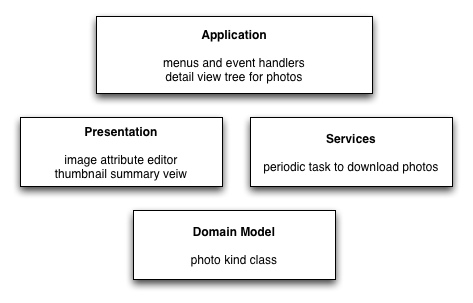
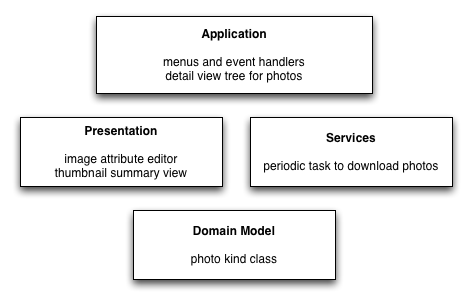
Added edits from Philippe, including typo in diagram.
git-svn-id: http://svn.osafoundation.org/chandler/trunk@8613 3c49585b-f0f7-0310-b5f9-dfe92a88fbfe

diff --git a/chandler/distrib/docs/overview.html b/chandler/distrib/docs/overview.html
@@ -159,7 +159,7 @@ Like
 many applications built on GUI frameworks, Chandler tends to mix the
 View and Controller code in one layer. We expect to reexamine this
 choice in
-the 0.7 timeframe -- this document will focus on the code as it exists
+the 0.7 time frame -- this document will focus on the code as it exists
 in the 0.6 release.
 <h3><a name="Application_Layer"></a>Application
 Layer</h3>
@@ -208,7 +208,7 @@ Most application layer code can be found here (starting from the top of the chan
 
 <ul>
   <li style="font-weight: bold;">application<span style="font-weight: normal;">&nbsp;The
-main class that runs the wxPython app, including application startup
+main class that runs the wxPython application, including application startup
 code. Also includes wxPython related printing support, and some system
 wide global variables.</span></li>
   <li><span style="font-weight: bold;">application.dialogs</span>
@@ -299,7 +299,7 @@ The appropriate Detail View tree of Blocks gets hooked into the Main
 View, depending on the Kind of Item selected.<br>
 <br>
 <span style="font-weight: bold;">Terminology note:</span> We sometimes use "Block" and "View"
-interchangably. "View" comes from MVC, and "Block" is our
+interchangeably. "View" comes from MVC, and "Block" is our
 Chandler-specific term. Yes, this can be confusing, especially given
 that "View" is also a common database term and we use "Repository View" as the name for a connection to the
 Repository.<br>
@@ -367,7 +367,7 @@ issue in 0.7.<br>
 <span style="font-weight: bold;">
 Key decision:</span> CPIA is not meant to be a general cross
 platform
-application building framework (ala XUL or wxWidgets). &nbsp;We're
+application building framework (such as XUL or wxWidgets). &nbsp;We're
 not trying to boil the ocean here. Chandler specific concepts like
 Items, Collections,&nbsp;Sidebar, Summary View and Detail View
 and their relationship to each other are embedded in the CPIA
@@ -409,7 +409,8 @@ webserver.<br>
 
 <br>
 The Chandler application allows users to&nbsp;share Collections by
-publishing them to a server. Similarly, a Chandler can subscribe to
+publishing them to a server. Similarly, a Chandler user can subscribe
+to
 other users' Collections. Even in 0.6, Chandler supports both read-only
 as well as read-write access to these shared calendars. Chandler also
 supports import and export of
@@ -452,7 +453,7 @@ an OSAF project with no dependencies on the rest of Chandler.<br>
 
 Zanshin and Chandler use the <a href="http://twistedmatrix.com/">Twisted</a>
 framework for networking support. Chandler
-services like mail and sharing run in the Twisted Reactor. See&nbsp;<a href="overview.html#Threading_Model">ThreadingModel</a>
+services like mail and sharing run in the Twisted Reactor. See&nbsp;<a href="overview.html#Threading_Model">Threading Model</a>
 below for more information on how this works. More information on
 Twisted in Chandler can be found <a href="http://wiki.osafoundation.org/bin/view/Projects/TwistedHome">here</a>
 and here. &lt;TODO: insert link to startup document&gt;<br>
@@ -516,9 +517,9 @@ Recurrence specification</a></li>
 </ul>
 
 <span style="font-weight: bold;">
-Terminology note</span>: We've have called this layer the
+Terminology note</span>: We have called this layer the
 "content model" in the past, so
-you'll find that term in the code. I chose "Domain Model" for this
+you'll find that term in the code. We chose "Domain Model" for this
 document because that term is more consistently used for this type of
 layer in other projects. We're still wrestling with the terminology and
 hope to clarify this further in 0.7.<br>
@@ -559,7 +560,7 @@ Parcels, for example. We created Parcels before the existence of <a href="http:/
 (or at least before we knew about them). In future releases we plan to
 replace Parcels with Eggs as a unit of component packaging.<br>
 <br>
-The <span style="font-weight: bold;">starup</span> module provides
+The <span style="font-weight: bold;">startup</span> module provides
 hooks&nbsp;for running code at application startup. It provides classes
 that help run code in a separate thread, classes that run in the
 Twisted reactor (<span style="font-weight: bold;">TwistedTask</span>), and classes that run at periodic intervals in the Twisted reactor (<span style="font-weight: bold;">PeriodicTask</span>). More about the <a href="#Threading_Model">threading model</a> below. More about the startup module <a href="#Parcel_Framework">here</a>.<br>
@@ -569,7 +570,7 @@ Schema layer code can be found here:</h5>
 
 <ul>
 
-  <li><span style="font-weight: bold;">application.schema</span> API for defining Chandler parcels and schemas</li>
+  <li><span style="font-weight: bold;">application.schema</span> API for defining Chandler parcels and schema</li>
   <li><span style="font-weight: bold;">application.Parcel</span> Controller code that loads parcels into the Repository.<span style="font-weight: bold;"><br>
     </span></li>
 
@@ -600,7 +601,7 @@ look <a href="http://svn.osafoundation.org/pylucene/trunk/README">here</a>.<br>
 
 Client code gets access to the Repository through a <span style="font-weight: bold;">RepositoryView</span>
 object, which is a connection to the Repository. Client code creates,
-retreives and updates Items in the repository view, which has an object
+retrieves and updates Items in the repository view, which has an object
 cache local to the view. The client code can then <span style="font-weight: bold;">commit</span> the modified Items back to the core Repository, or <span style="font-weight: bold;">refresh</span>
 changes from the core Repository back into the view. The client code
 can also roll back changes. The transactional model is similar to that
@@ -619,7 +620,7 @@ has two key mechanisms to send notifications: per attribute <span style="font-we
 <br>
 The Repository contains the core implementations for Items, Kinds, and
 Attributes. Layers above the repository use the schema api instead of
-using the Repsitory's API directly (with some exceptions, like the
+using the Repository's API directly (with some exceptions, like the
 RepositoryView).<br>
 
 <h5>Repository layer code can be found here:</h5>
@@ -681,7 +682,7 @@ AttributeEditor for photo images</li>
 
 An extension parcel might separate its code into Python modules
 based on these layers, or might include them all in one module if the
-parcel is small enough -- its up to the judement of the parcel
+parcel is small enough -- its up to the parcel
 developer.<br>
 <br>
 The parcel framework will introspect the extension parcel and commit
@@ -737,7 +738,7 @@ in a single thread.) &nbsp;We're currently using the Twisted
 Reactor to schedule work that needs to happen outside the UI thread.
 The Reactor runs in a separate thread, and is used to schedule work. In
 Chandler the units of work are called&nbsp;<span style="font-weight: bold;">PeriodicTasks</span>, which
-are Items that pesist in the Repository. Each PeriodicTask has its own <strong style="font-weight: normal;">Repository View</strong>,
+are Items that persist in the Repository. Each PeriodicTask has its own <strong style="font-weight: normal;">Repository View</strong>,
 as does the main wxWidgets UI thread.&nbsp;</p>
 
 <p>To follow an example, the
@@ -761,31 +762,29 @@ Repository. The Repository has the notion of a 'set' of items. Sets can
 be created by listing Items explicitly, by querying for Items, or by
 combining sets (unions, differences or intersections). Collections wrap
 sets so that they look like Items to the client code in the layers
-above. Collections subscribe to set notifications, collecting
-information about changes to the contents of the Collection and changes
-to the Items in the Collection. The collection class provides a class
-method called deliverNotifications. This methond is called by the
-application to send out notifications to the higher level layers.<br>
+above. Collections subscribe to set notifications, adding all
+notifications to a queue. The collection module provides a function
+called <span style="font-family: monospace;">deliverNotifications()</span>,
+which iterates through the queue and notifies subscribers to the
+Collection. This function is called by the application to send out
+notifications to the higher level layers.<br>
 <br>
-The main application object defines a method called OnIdle, which gets
-called during the application's idle cycle (cycles between processing
-input from the user). As mentioned above in Threading Model, OnIdle
-will call refresh() on the GUI thread's Repository View. This call
-picks up changes from the repository, including the collected change
-notifications for all Collections. OnIdle then calls the
-deliverNotifications class method, which does something useful.
-Notification delivery dirties appropriate blocks. OnIdle then walks
-through the Blocks, sychnronizing any dirty Blocks with their Widget
-delegates. The Widgets in turn dirty themselves, so that they are drawn
-in the next OnPaint cycle. The wxWidgets event handling framework
-handles calling both OnIdle as well as OnPaint at the appropriate times.<br>
+The main application object defines a method called <span style="font-family: monospace;">OnIdle()</span>, which gets called during the application's idle cycle (cycles between processing input from the user). As mentioned above in <a href="#Threading_Model">Threading Model</a>, <span style="font-family: monospace;">OnIdle()</span> will call <span style="font-family: monospace;">refresh()</span>
+on the GUI thread's Repository View. This call picks up changes from
+the Repository, including the collected change notifications for all
+Collections. <span style="font-family: monospace;">OnIdle()</span> then calls the <span style="font-family: monospace;">deliverNotifications()</span> function,&nbsp;. Notification delivery dirties appropriate blocks. <span style="font-family: monospace;">OnIdle()</span>
+then walks through the Blocks, synchronizing any dirty Blocks with
+their Widget delegates. The Widgets in turn dirty themselves, so that
+they are drawn in the next paint cycle. The wxWidgets event handling
+framework handles calling both <span style="font-family: monospace;">OnIdle()</span> as well as <span style="font-family: monospace;">OnPaint()</span> at the appropriate times.<br>
 <br>
 Attribute Editor notifications have an exception to this mechanism --
 they subscribe directly to the Repository's attribute monitors. Every
 time an attribute is changed, the repository fires off a monitor to all
 subscribers (in this case the Attribute Editor). &nbsp;We plan on
-changing this in 0.7, by creating Item notifications not unlike the
-Collection notifications.<br>
+changing this use of monitors in 0.7. We plan on implementing Item
+notifications (not unlike the Collection notifications) and use them to
+update Attribute Editors.<br>
 
 <h2><a name="Internationalization"></a>Internationalization
 (i18n)</h2>
